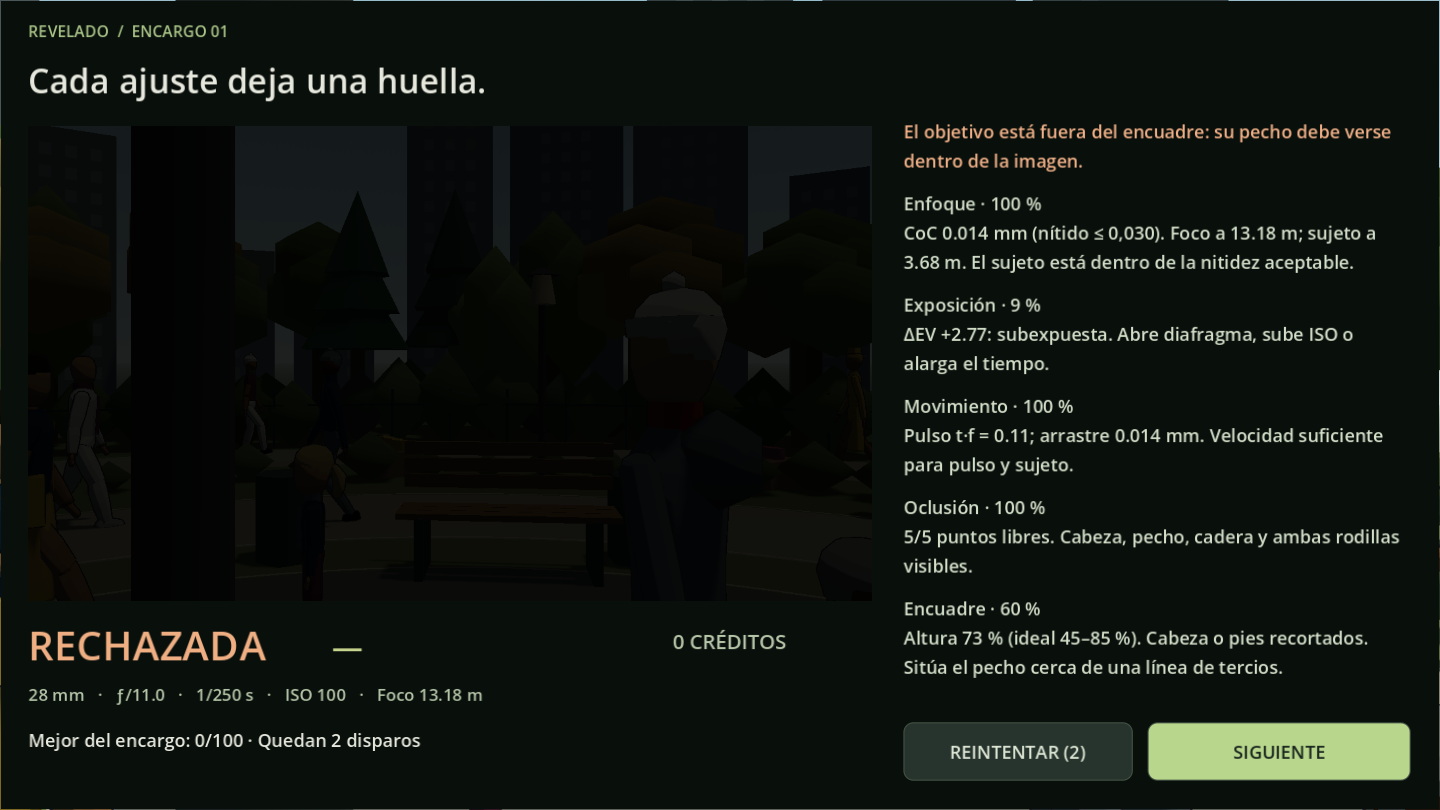
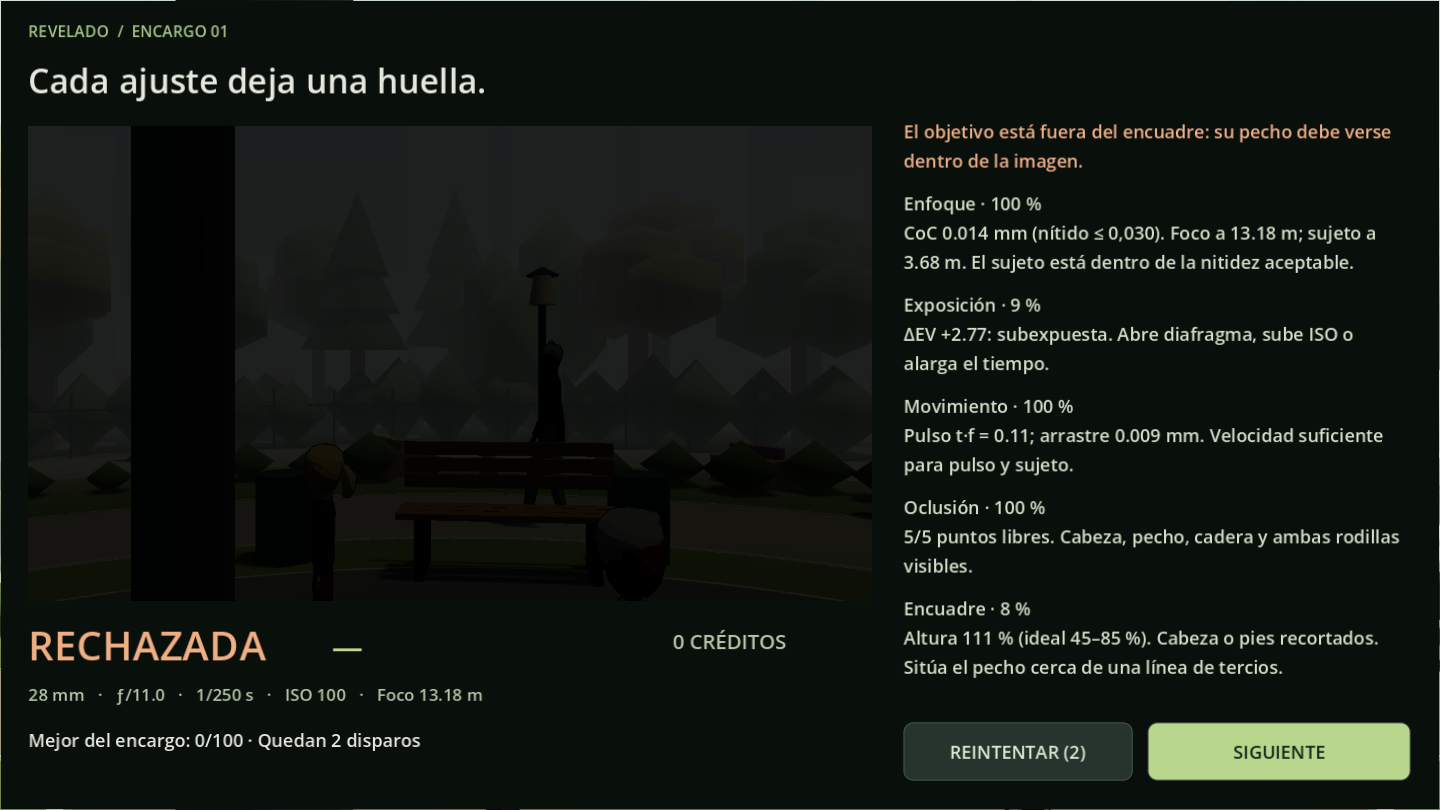
feat: add procedural park generation script, cel-outline shader, and scene documentation

diff --git a/docs/ESCENARIO_Y_RENDIMIENTO.md b/docs/ESCENARIO_Y_RENDIMIENTO.md
@@ -72,6 +72,17 @@ El parque cuenta con un sistema de nubes procedurales cúbicas de baja altura:
 
 ---
 
+### 3.3 Perspectiva Aérea y Niebla de Profundidad (Atmospheric Depth Fog)
+Para evitar el ruido visual y el apiñamiento de planos entre viandantes y masa vegetal de fondo:
+- **Niebla de profundidad (`Environment.fog_mode = FOG_MODE_DEPTH`)**:
+  - Comienzo a $r = 8.0\text{ m}$ (tras el carril intermedio 2) y cota máxima a $22.0\text{ m}$.
+  - Los primeros planos ($r < 8.0\text{ m}$) mantienen contraste y saturación íntegros.
+  - El fondo vegetal y el horizonte urbano se funden suavemente con el tono del horizonte (`c5d4c9` de día, `192139` de noche).
+- **Mapeo de tonos HDR / ACES (`tonemap_mode = TONE_MAPPER_ACES`, `tonemap_white = 1.4` y ajustes de contraste)**: Curva cinematográfica de compresión de altas luces.
+- **Atenuación adaptativa de tinta (`cel_outline.gdshader`)**: El contorno exterior de los maniquíes disminuye progresivamente su grosor relativo entre 7 m y 17 m para no saturar con líneas negras los planos lejanos.
+
+---
+
 ## 4. Fusión de Malla Estática (`merge_static_meshes`)
 
 Para mantener el máximo rendimiento en `gl_compatibility`:
